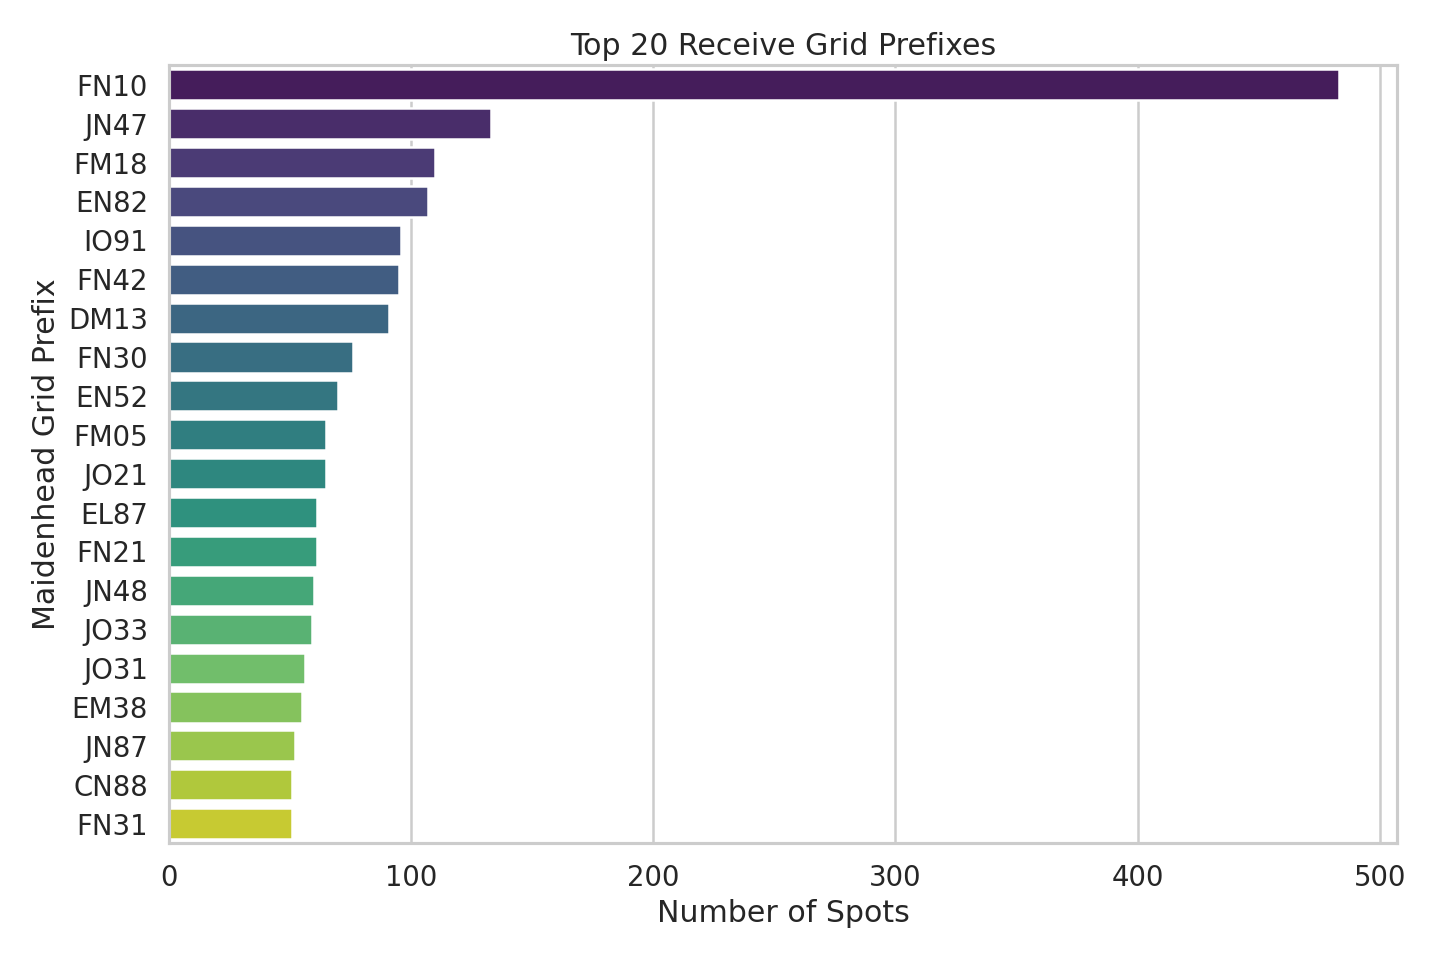
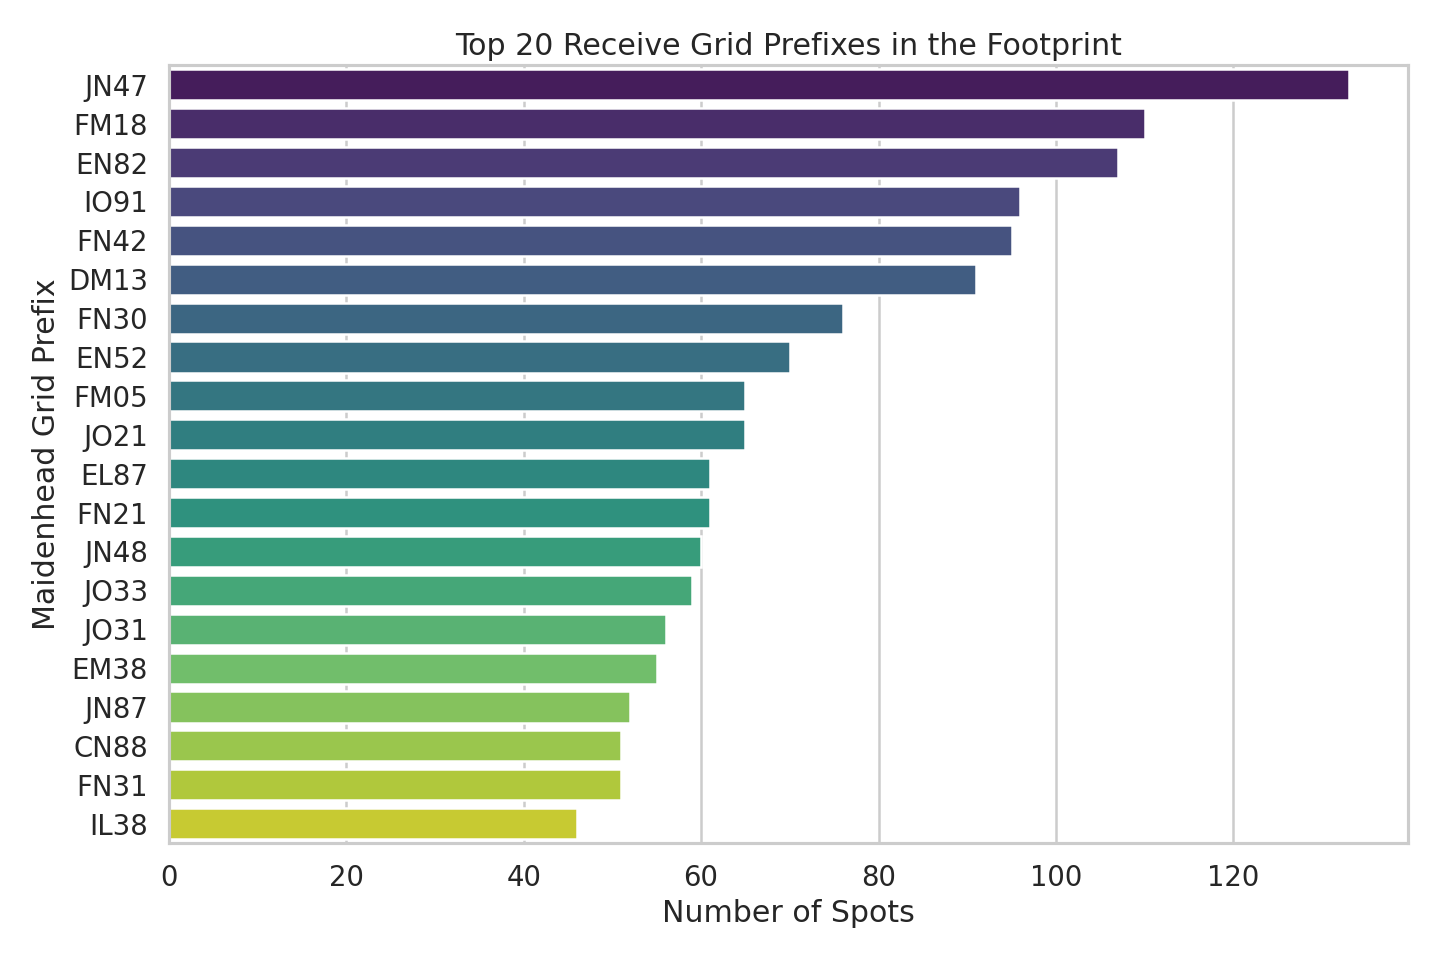
update analysis 3

diff --git a/articles/7510_wspr_results_analysis.md b/articles/7510_wspr_results_analysis.md
@@ -110,7 +110,7 @@ This analysis computes mean, maximum, and standard deviation of path distance `k
 
 
 
-This analysis identifies the strongest footprint by the top receive grid prefixes.
+This analysis identifies the strongest footprint by the top *receive* grid prefixes.
 
 **Purpose:**
 - Visualize the geographic distribution of contacts by the most active Maidenhead grid areas.
@@ -127,18 +127,35 @@ This analysis identifies the strongest footprint by the top receive grid prefixe
 - Use this information to compare with azimuthal coverage and band-specific reach.
 
 **Actual results for `7510m_wspr_spots.tsv`:**
-- Top receive grid prefixes:
-  - `FN10`: 483 spots
-  - `JN47`: 133 spots
-  - `FM18`: 110 spots
-  - `EN82`: 107 spots
-  - `IO91`: 96 spots
-- The footprint is dominated by mid-Atlantic and eastern North America squares, with significant regional clusters.
+- Top 20 receive grid prefixes (stations hearing KD3CCO):
+
+| Rank | Grid | Count | Region |
+|------|------|-------|--------|
+| 1 | JN47 | 133 | Central Europe (Austria/Germany) |
+| 2 | FM18 | 110 | Mid-Atlantic US (Washington DC area) |
+| 3 | EN82 | 107 | Upper Midwest US |
+| 4 | IO91 | 96 | Southern England |
+| 5 | FN42 | 95 | Northeastern US |
+| 6 | DM13 | 91 | Southwestern US |
+| 7 | FN30 | 76 | Northeastern US |
+| 8 | EN52 | 70 | Central US |
+| 9 | FM05 | 65 | Mid-Atlantic US |
+| 9 | JO21 | 65 | Netherlands/Belgium |
+| 11 | EL87 | 61 | Gulf Coast US |
+| 11 | FN21 | 61 | Northeastern US |
+| 13 | JN48 | 60 | Central Europe |
+| 14 | JO33 | 59 | Northern Germany |
+| 15 | JO31 | 56 | Netherlands |
+| 16 | EM38 | 55 | South-Central US |
+| 17 | JN87 | 52 | Northern Italy/Switzerland |
+| 18 | CN88 | 51 | Pacific Northwest US |
+| 18 | FN31 | 51 | Northeastern US |
+| 20 | IL38 | 46 | North Africa/Canary Islands |
 
 **Interpretation from the dataset:**
-- This analysis is skewed to FN10 because I didn't first filter out my "hearing KD3CCO" spots. I'd rather redo this only using "KD3CCO hearing" spots.
-- The station is strongly heard in the northern mid-Atlantic US and adjacent Canadian sectors.
-- The presence of many `EN`, `FN`, and `IO` prefixes shows a mix of domestic/regional and longer continental paths.
+- The footprint is genuinely transatlantic, with strong representation in both Europe (JN47, IO91, JO21, JN48, JO33, JN87) and across North America.
+- The eastern US and central Europe dominate, consistent with 20m propagation during a late-afternoon/evening opening.
+- Coverage reaching IL38 (North Africa / Canary Islands area) indicates long-path propagation was active during the capture window.
 
 
 > Geographical Footprint  
